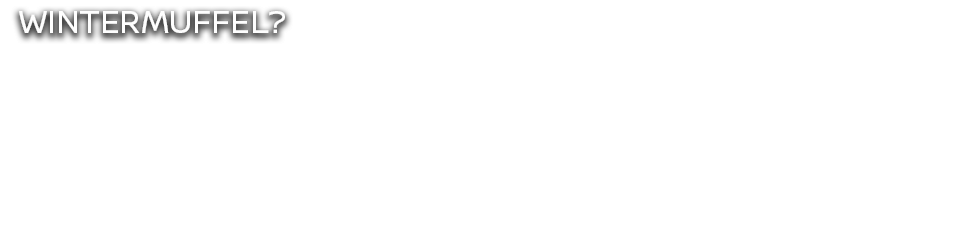
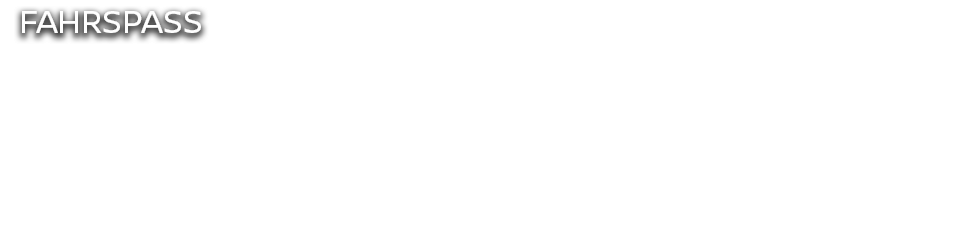
goendlechange
goendlechange

Changed region(s): [[0.0, 0.028, 0.3093, 0.168]]

diff --git a/fixed_goendle/sb_billboard/göndle_sb_billboard_an.js b/fixed_goendle/sb_billboard/göndle_sb_billboard_an.js
@@ -33,12 +33,6 @@ p.nominalBounds = new cjs.Rectangle(0,0,970,250);
 p.nominalBounds = new cjs.Rectangle(0,0,970,250);
 
 
-(lib.nicht = function() {
-	this.initialize(img.nicht);
-}).prototype = p = new cjs.Bitmap();
-p.nominalBounds = new cjs.Rectangle(0,0,970,250);
-
-
 (lib.text = function() {
 	this.initialize(img.text);
 }).prototype = p = new cjs.Bitmap();
@@ -59,18 +53,6 @@ function getMCSymbolPrototype(symbol, nominalBounds, frameBounds) {
 	prototype.frameBounds = frameBounds;
 	return prototype;
 	}
-
-
-(lib.Symbol5 = function(mode,startPosition,loop) {
-	this.initialize(mode,startPosition,loop,{});
-
-	// Ebene_1
-	this.instance = new lib.nicht();
-	this.instance.parent = this;
-
-	this.timeline.addTween(cjs.Tween.get(this.instance).wait(1));
-
-}).prototype = getMCSymbolPrototype(lib.Symbol5, new cjs.Rectangle(0,0,970,250), null);
 
 
 (lib.Symbol4 = function(mode,startPosition,loop) {
@@ -167,33 +149,24 @@ if (loop == null) { loop = false; }	this.initialize(mode,startPosition,loop,{});
 
 	this.timeline.addTween(cjs.Tween.get(this.instance_2).wait(63).to({_off:false},0).wait(1).to({alpha:0.031},0).wait(1).to({alpha:0.063},0).wait(1).to({alpha:0.094},0).wait(1).to({alpha:0.125},0).wait(1).to({alpha:0.156},0).wait(1).to({alpha:0.188},0).wait(1).to({alpha:0.219},0).wait(1).to({alpha:0.25},0).wait(1).to({alpha:0.281},0).wait(1).to({alpha:0.313},0).wait(1).to({alpha:0.344},0).wait(1).to({alpha:0.375},0).wait(1).to({alpha:0.406},0).wait(1).to({alpha:0.438},0).wait(1).to({alpha:0.469},0).wait(1).to({alpha:0.5},0).wait(1).to({alpha:0.531},0).wait(1).to({alpha:0.563},0).wait(1).to({alpha:0.594},0).wait(1).to({alpha:0.625},0).wait(1).to({alpha:0.656},0).wait(1).to({alpha:0.688},0).wait(1).to({alpha:0.719},0).wait(1).to({alpha:0.75},0).wait(1).to({alpha:0.781},0).wait(1).to({alpha:0.813},0).wait(1).to({alpha:0.844},0).wait(1).to({alpha:0.875},0).wait(1).to({alpha:0.906},0).wait(1).to({alpha:0.938},0).wait(1).to({alpha:0.969},0).wait(1).to({alpha:1},0).wait(31));
 
-	// nicht
-	this.instance_3 = new lib.Symbol5();
+	// muffel
+	this.instance_3 = new lib.Symbol3();
 	this.instance_3.parent = this;
 	this.instance_3.setTransform(485,125,1,1,0,0,0,485,125);
 	this.instance_3.alpha = 0;
 	this.instance_3._off = true;
 
-	this.timeline.addTween(cjs.Tween.get(this.instance_3).wait(39).to({_off:false},0).wait(1).to({alpha:0.043},0).wait(1).to({alpha:0.087},0).wait(1).to({alpha:0.13},0).wait(1).to({alpha:0.174},0).wait(1).to({alpha:0.217},0).wait(1).to({alpha:0.261},0).wait(1).to({alpha:0.304},0).wait(1).to({alpha:0.348},0).wait(1).to({alpha:0.391},0).wait(1).to({alpha:0.435},0).wait(1).to({alpha:0.478},0).wait(1).to({alpha:0.522},0).wait(1).to({alpha:0.565},0).wait(1).to({alpha:0.609},0).wait(1).to({alpha:0.652},0).wait(1).to({alpha:0.696},0).wait(1).to({alpha:0.739},0).wait(1).to({alpha:0.783},0).wait(1).to({alpha:0.826},0).wait(1).to({alpha:0.87},0).wait(1).to({alpha:0.913},0).wait(1).to({alpha:0.957},0).wait(1).to({alpha:1},0).wait(64));
-
-	// muffel
-	this.instance_4 = new lib.Symbol3();
-	this.instance_4.parent = this;
-	this.instance_4.setTransform(485,125,1,1,0,0,0,485,125);
-	this.instance_4.alpha = 0;
-	this.instance_4._off = true;
-
-	this.timeline.addTween(cjs.Tween.get(this.instance_4).wait(2).to({_off:false},0).wait(1).to({alpha:0.05},0).wait(1).to({alpha:0.1},0).wait(1).to({alpha:0.15},0).wait(1).to({alpha:0.2},0).wait(1).to({alpha:0.25},0).wait(1).to({alpha:0.3},0).wait(1).to({alpha:0.35},0).wait(1).to({alpha:0.4},0).wait(1).to({alpha:0.45},0).wait(1).to({alpha:0.5},0).wait(1).to({alpha:0.55},0).wait(1).to({alpha:0.6},0).wait(1).to({alpha:0.65},0).wait(1).to({alpha:0.7},0).wait(1).to({alpha:0.75},0).wait(1).to({alpha:0.8},0).wait(1).to({alpha:0.85},0).wait(1).to({alpha:0.9},0).wait(1).to({alpha:0.95},0).wait(1).to({alpha:1},0).wait(104));
+	this.timeline.addTween(cjs.Tween.get(this.instance_3).wait(11).to({_off:false},0).wait(1).to({alpha:0.053},0).wait(1).to({alpha:0.105},0).wait(1).to({alpha:0.158},0).wait(1).to({alpha:0.211},0).wait(1).to({alpha:0.263},0).wait(1).to({alpha:0.316},0).wait(1).to({alpha:0.368},0).wait(1).to({alpha:0.421},0).wait(1).to({alpha:0.474},0).wait(1).to({alpha:0.526},0).wait(1).to({alpha:0.579},0).wait(1).to({alpha:0.632},0).wait(1).to({alpha:0.684},0).wait(1).to({alpha:0.737},0).wait(1).to({alpha:0.789},0).wait(1).to({alpha:0.842},0).wait(1).to({alpha:0.895},0).wait(1).to({alpha:0.947},0).wait(1).to({alpha:1},0).wait(96));
 
 	// Ebene_6
-	this.instance_5 = new lib.Symbol1();
-	this.instance_5.parent = this;
-	this.instance_5.setTransform(483.3,115.9,0.486,0.486,0,0,0,998.5,739.6);
+	this.instance_4 = new lib.Symbol1();
+	this.instance_4.parent = this;
+	this.instance_4.setTransform(483.3,115.9,0.486,0.486,0,0,0,998.3,739.4);
 
-	this.timeline.addTween(cjs.Tween.get(this.instance_5).wait(1).to({regX:1000,regY:741,scaleX:0.49,scaleY:0.49,x:484.1,y:116.6},0).wait(125));
+	this.timeline.addTween(cjs.Tween.get(this.instance_4).wait(1).to({regX:1000,regY:741,scaleX:0.49,scaleY:0.49,x:484.2,y:116.7},0).wait(125));
 
 }).prototype = p = new cjs.MovieClip();
-p.nominalBounds = new cjs.Rectangle(482.5,-119,973,721);
+p.nominalBounds = new cjs.Rectangle(482.6,-118.9,973,721);
 // library properties:
 lib.properties = {
 	id: 'C85BA38B5DEAC945B5011F404DC7D8C1',
@@ -207,7 +180,6 @@ lib.properties = {
 		{src:"images/button.jpg", id:"button"},
 		{src:"images/logo.png", id:"logo"},
 		{src:"images/muffel.png", id:"muffel"},
-		{src:"images/nicht.png", id:"nicht"},
 		{src:"images/text.png", id:"text"}
 	],
 	preloads: []

diff --git a/fixed_goendle/sb_billboard/göndle_sb_billboard_an.html b/fixed_goendle/sb_billboard/göndle_sb_billboard_an.html
@@ -28,7 +28,7 @@
 		}
 		return query_string;
 	}();
-</script>	
+</script>
 <script>
 var canvas, stage, exportRoot, anim_container, dom_overlay_container, fnStartAnimation;
 function init() {
@@ -101,7 +101,7 @@ function handleComplete(evt,comp) {
 			stage.tickOnUpdate = true;		
 		}
 	}
-	makeResponsive(false,'both',false,1);	
+	makeResponsive(true,'both',false,1);	
 	AdobeAn.compositionLoaded(lib.properties.id);
 	fnStartAnimation();
 }
